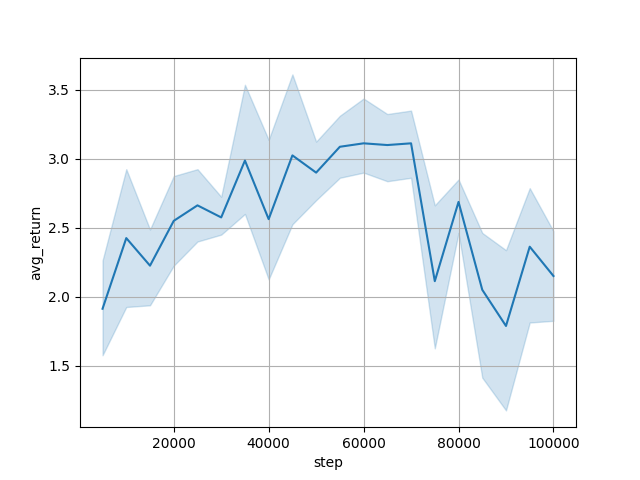
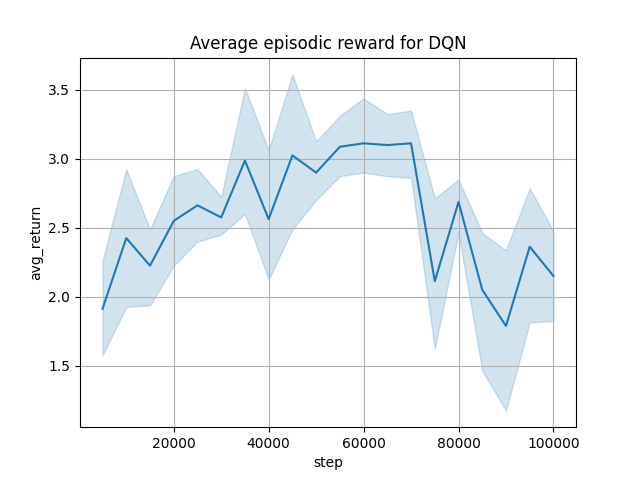
Added title for visualisation of some plots.

diff --git a/analysis/plot_eval_performance.py b/analysis/plot_eval_performance.py
@@ -7,7 +7,7 @@ import matplotlib.pyplot as plt
 import pandas as pd
 import seaborn as sns
 
-from src.utils.constant_builder import PathBuilder
+from src.utils.constant_builder import PathBuilder, AgentTypes
 from src.utils.string_utils import get_dir_name_as_img, get_dirs_name_as_img
 
 
@@ -23,9 +23,9 @@ def read_pkl(path):
 
 
 def read_crafter_logs(in_dir, clip=True):
-    in_dir = pathlib.Path(in_dir)
+    in_dir_par = pathlib.Path(in_dir)
     # read the pickles
-    filenames = sorted(list(in_dir.glob("**\\*\\eval_stats.pkl")))
+    filenames = sorted(list(in_dir_par.glob("**\\*\\eval_stats.pkl")))
     runs = []
     for idx, fn in enumerate(filenames):
         df = pd.DataFrame(columns=["step", "avg_return"], data=read_pkl(fn))
@@ -42,7 +42,8 @@ def read_crafter_logs(in_dir, clip=True):
     df = pd.concat(runs, ignore_index=True)
     sns.lineplot(x="step", y="avg_return", data=df)
     plt.grid(visible=True)
-    plt.savefig(os.path.join(PathBuilder.EVAL_PLOTS_DIR, get_dir_name_as_img(in_dir.__str__())))
+    plt.title(f"Average episodic reward for {AgentTypes.PATH_TO_NAME[in_dir]}")
+    plt.savefig(os.path.join(PathBuilder.EVAL_PLOTS_DIR, get_dir_name_as_img(in_dir_par.__str__())))
     plt.show()
 
 
